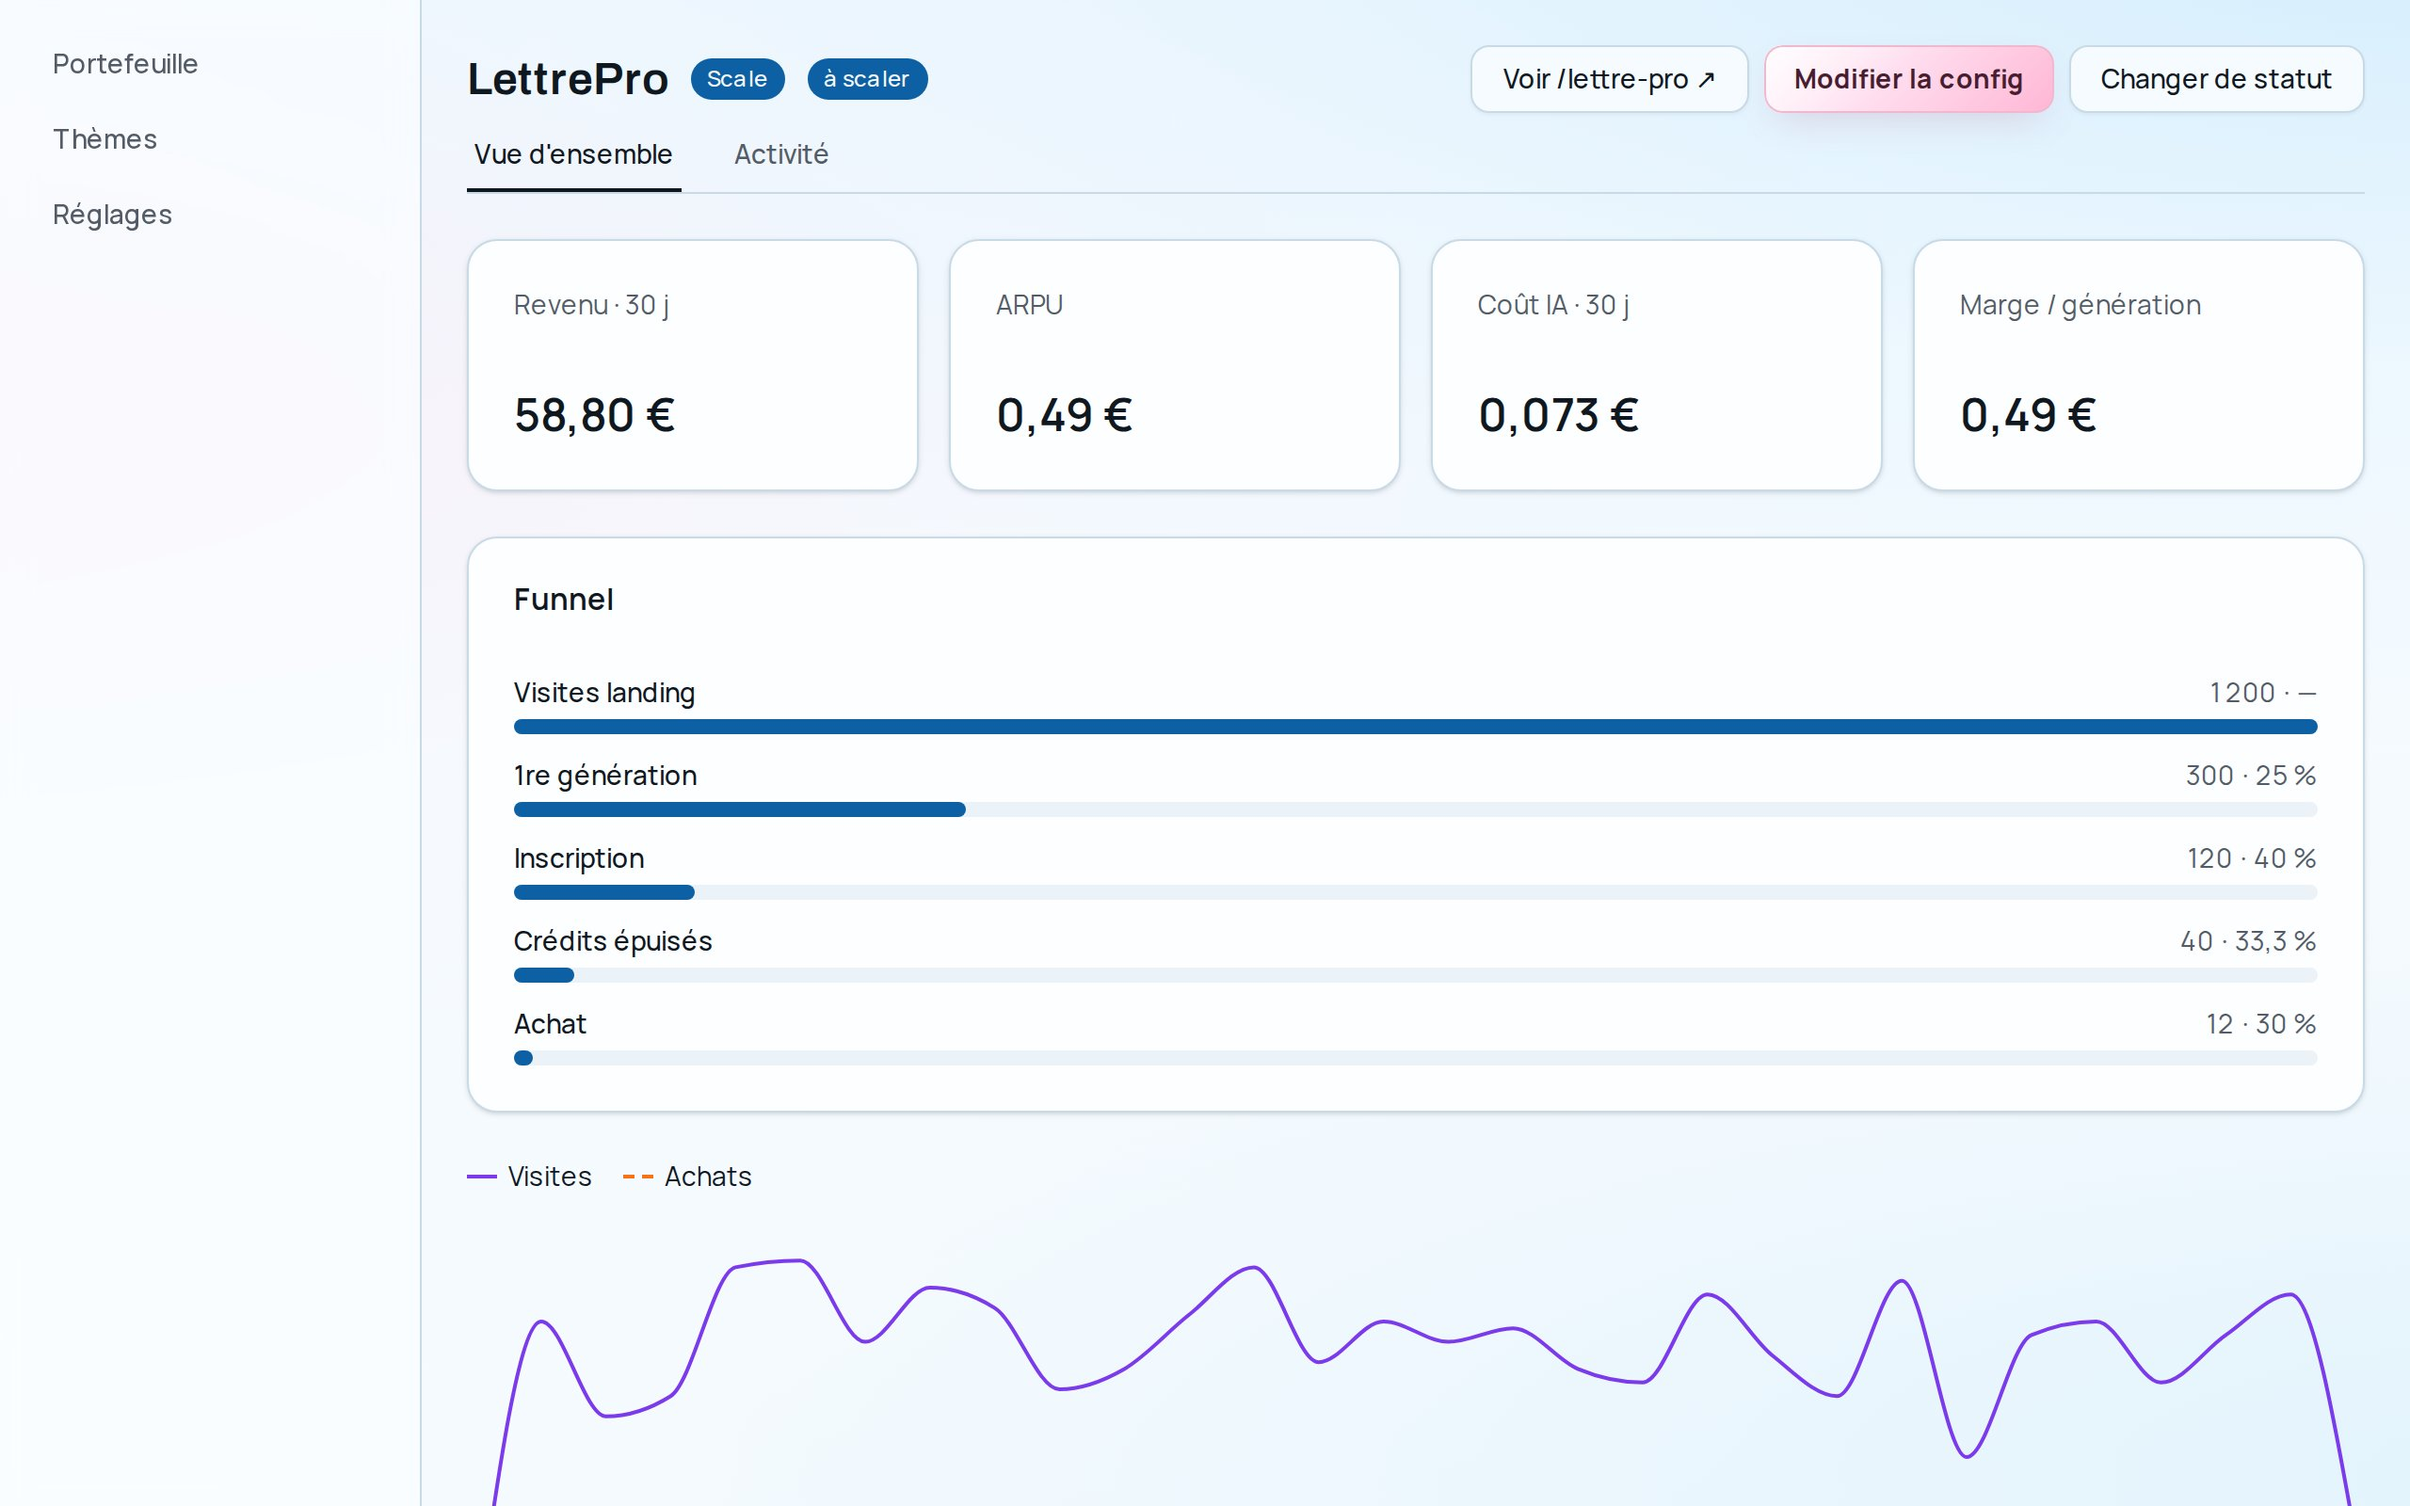
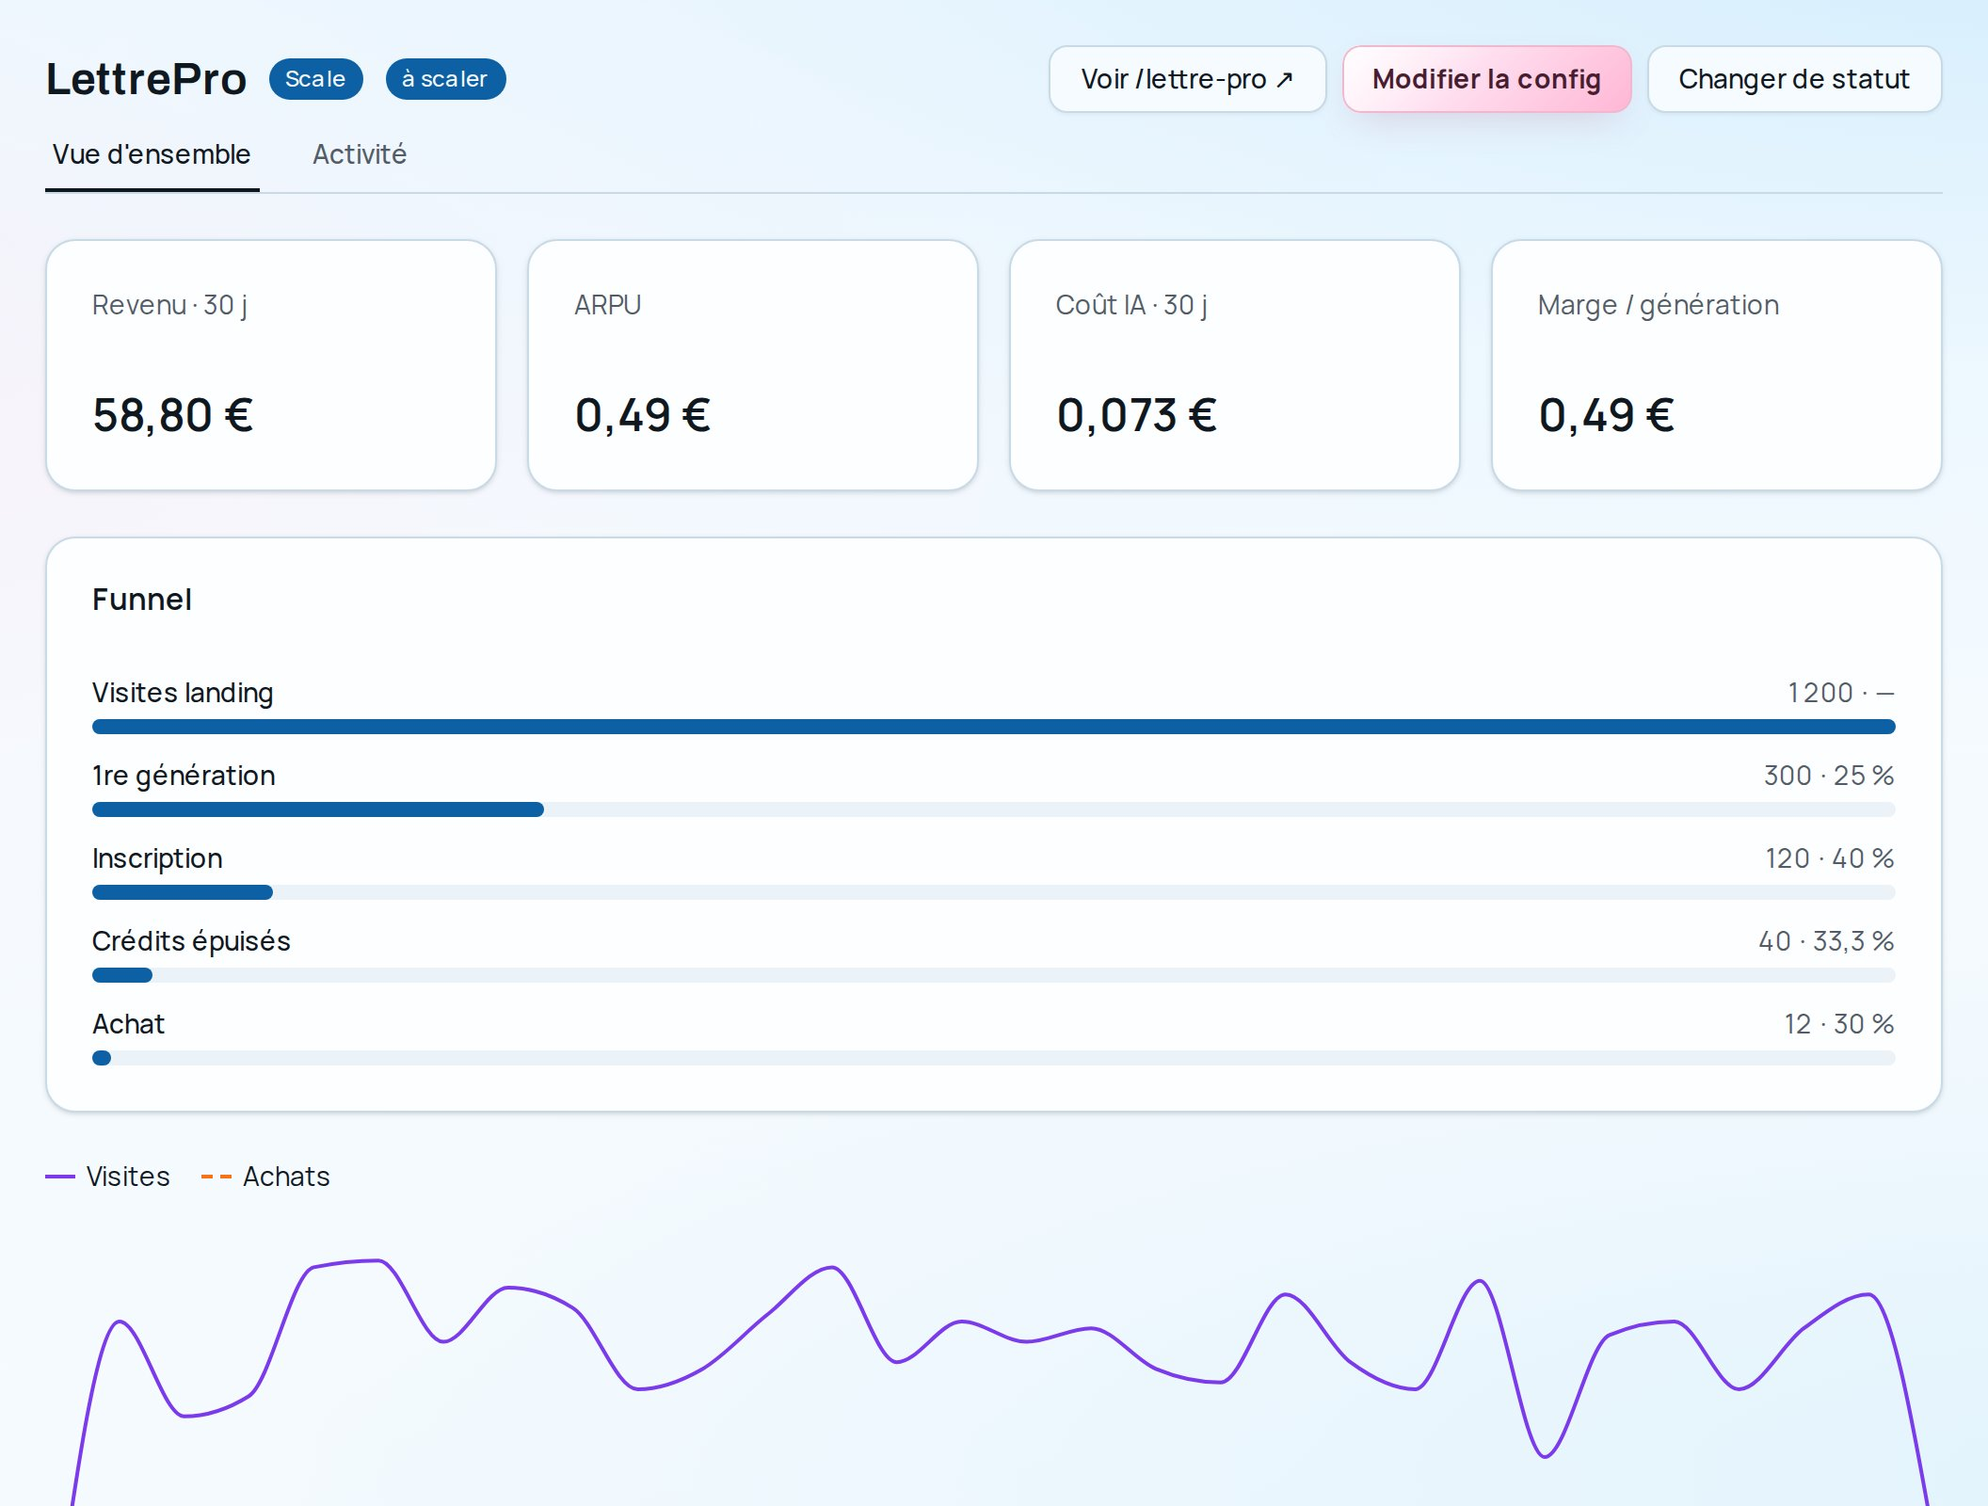
feat(bo): crop the sidebar out of the product and form screenshots
On the landing's "Le backoffice en images", only the portfolio shot keeps
the admin navigation; the product sheet and the product form now start
where the sidebar ends, so they show more of the page itself. The script
measures the sidebar in the page and clips the capture after it (the page
keeps its real layout). Images regenerated on a freshly seeded database.

Claude-Session: https://claude.ai/code/session_01EAYdDYcK6mvuLbEiMfvncf

diff --git a/scripts/backoffice-screenshots.ts b/scripts/backoffice-screenshots.ts
@@ -21,13 +21,23 @@ const VIEWPORT = { width: 1280, height: 800 };
 // Hides the Next.js dev-tools badge, which only exists on `next dev`.
 const HIDE_DEV_OVERLAY = "nextjs-portal { display: none !important; }";
 
-async function capture(page: Page, name: string) {
+// `withoutSidebar` crops the admin navigation out of the image (the
+// portfolio shot keeps it, the others focus on the page itself); the page
+// keeps its real layout, only the capture starts where the sidebar ends.
+async function capture(page: Page, name: string, { withoutSidebar = false } = {}) {
   await page.addStyleTag({ content: HIDE_DEV_OVERLAY });
   // Lets fonts, charts and the diffuse ground settle.
   await page.waitForTimeout(1000);
+  let clip: { x: number; y: number; width: number; height: number } | undefined;
+  if (withoutSidebar) {
+    const sidebar = await page.locator("nav", { has: page.getByRole("link", { name: "Portefeuille" }) }).boundingBox();
+    if (!sidebar) throw new Error(`${name}: admin sidebar not found, cannot crop it out`);
+    const left = Math.ceil(sidebar.x + sidebar.width);
+    clip = { x: left, y: 0, width: VIEWPORT.width - left, height: VIEWPORT.height };
+  }
   // JPEG: the diffuse gradient ground compresses badly as PNG.
   const path = join(OUT_DIR, `${name}.jpg`);
-  await page.screenshot({ path, type: "jpeg", quality: 85 });
+  await page.screenshot({ path, type: "jpeg", quality: 85, clip });
   console.log(`✓ ${path}`);
 }
 
@@ -45,7 +55,7 @@ async function main() {
     await capture(page, "backoffice-portfolio");
 
     await page.goto("/admin/products/lettre-pro", { waitUntil: "networkidle" });
-    await capture(page, "backoffice-product");
+    await capture(page, "backoffice-product", { withoutSidebar: true });
 
     // The product form, filled from the same fixture as the two-minute demo
     // (e2e/product-form.spec.ts), on the step whose preview shows a landing.
@@ -58,7 +68,7 @@ async function main() {
     await page.locator('[role="radio"]', { hasText: "Neon" }).click();
     await page.getByRole("button", { name: /^3\./ }).click();
     await page.getByText("Configuration importée").waitFor({ state: "hidden" });
-    await capture(page, "backoffice-product-form");
+    await capture(page, "backoffice-product-form", { withoutSidebar: true });
   } finally {
     await browser.close();
   }
